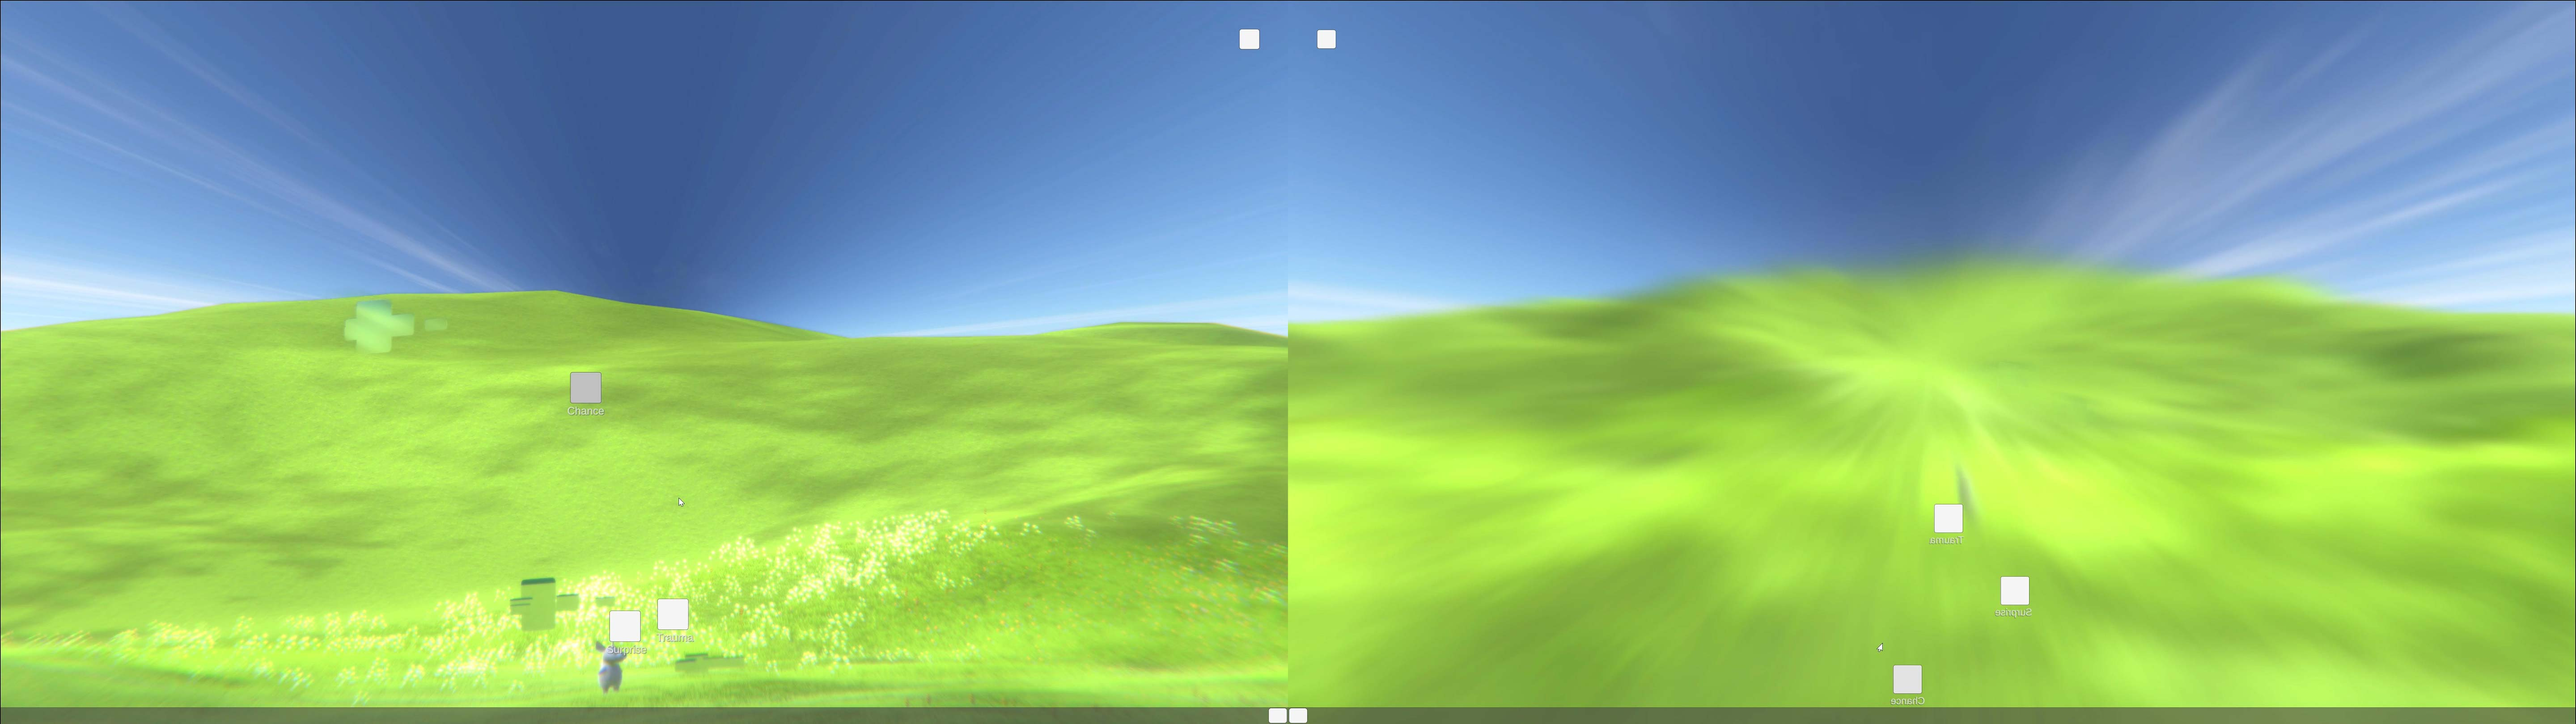
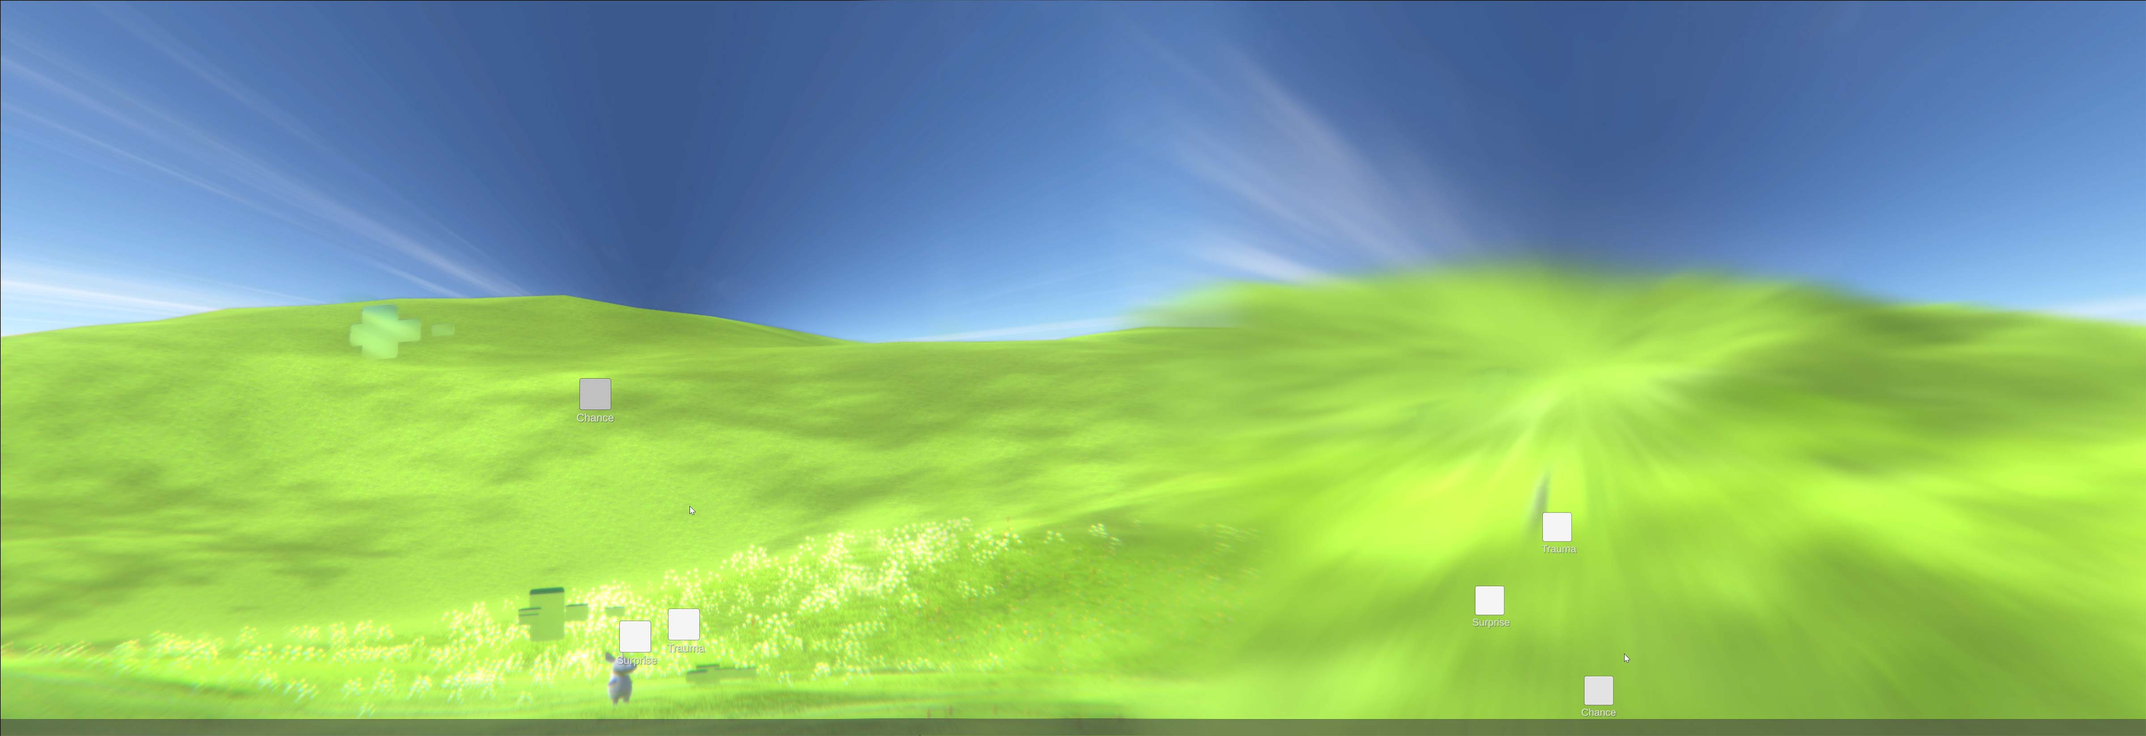
1

diff --git a/SDiary/index.html b/SDiary/index.html
@@ -17,7 +17,7 @@
         <div id="bg"></div>
 
         <div class="row-flex-container">
-            <img class="row-flex-item" id="flex-start" style="width: 231.111111vh;" src="./page-assets/bliss.jpg">
+            <img class="row-flex-item" id="flex-start" style="width: 189.435337vh;" src="./page-assets/bliss.jpg">
             
             <iframe class="row-flex-item" style="margin-left: calc( 3 * max(min(calc(0.1 * max(100vh, 100vw)), 150px), 50px) ); width: 115.55556vh;" src="https://player.vimeo.com/video/519922617" width="1920" height="1080" frameborder="0" allow="autoplay; fullscreen; picture-in-picture" allowfullscreen></iframe>
 
